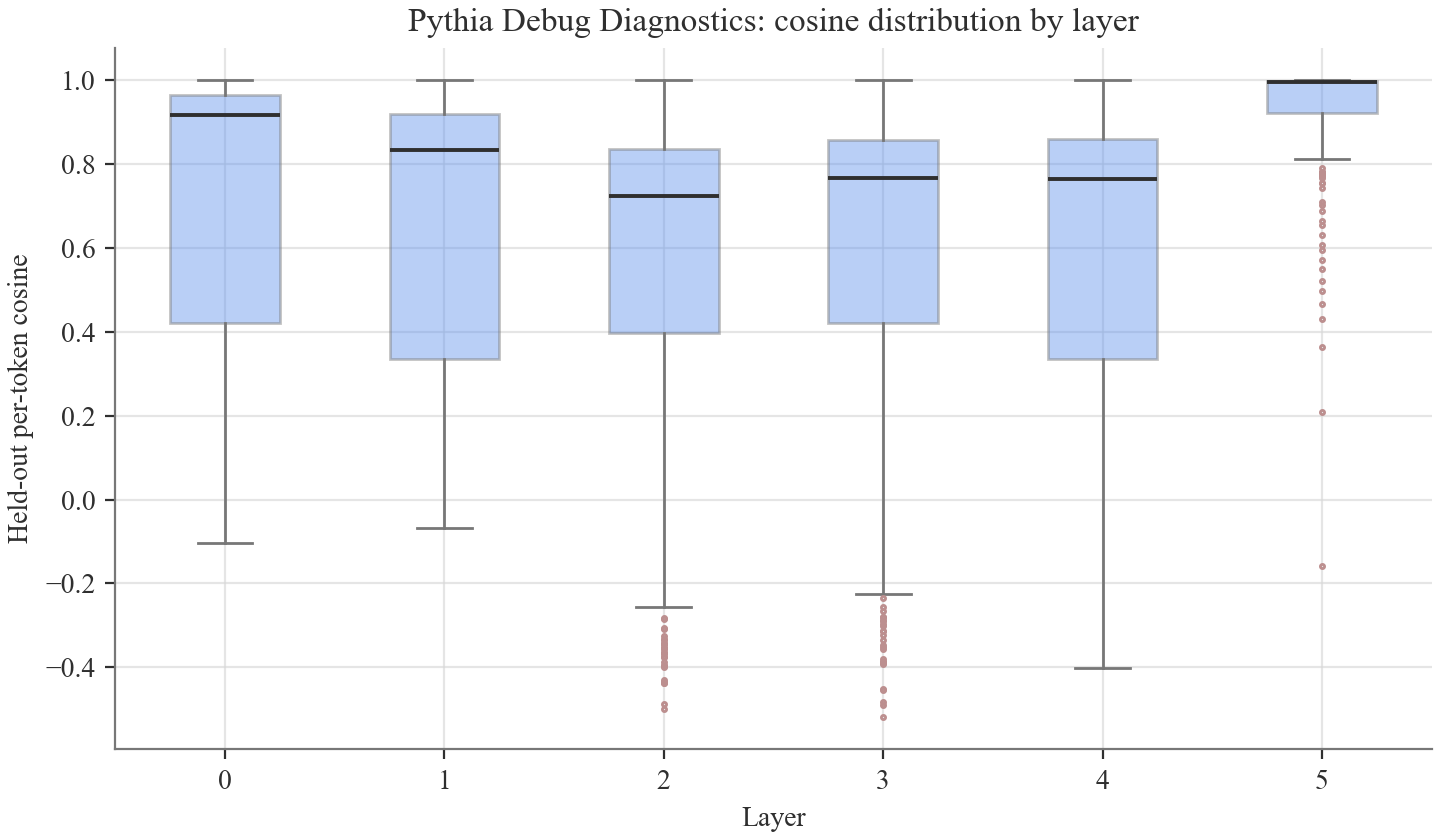
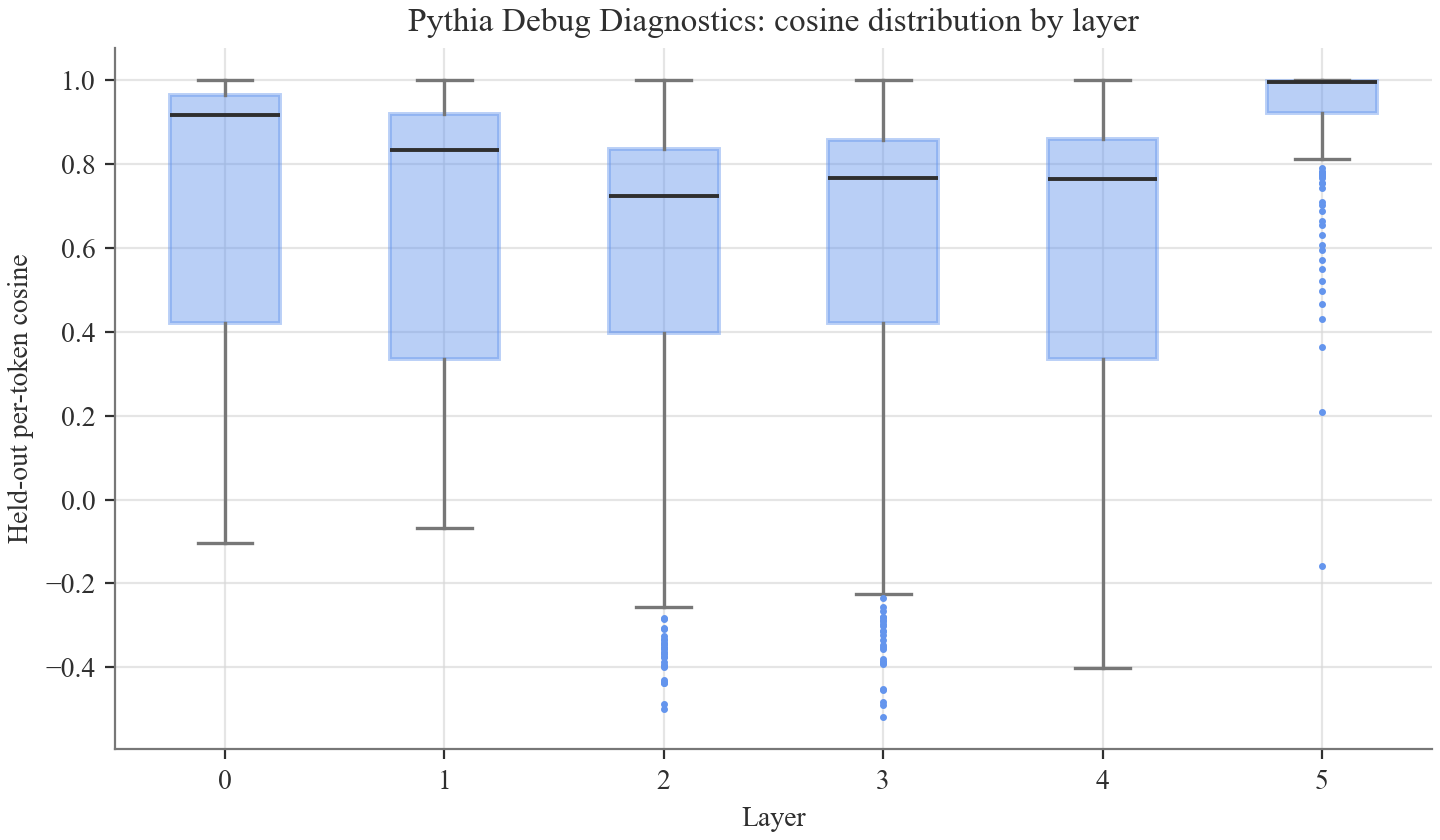
first *working* run

diff --git a/src/token_vs_context_llms/plotting.py b/src/token_vs_context_llms/plotting.py
@@ -153,13 +153,19 @@ def _write_cosine_boxplot(
         patch_artist=True,
         labels=[str(int(layer)) for layer in diagnostics.layer_indices],
         medianprops={"color": TEXT_COLOR, "linewidth": 1.4},
-        boxprops={"color": SPINE_COLOR},
-        whiskerprops={"color": SPINE_COLOR},
-        capprops={"color": SPINE_COLOR},
-        flierprops={"marker": ".", "markersize": 3, "markeredgecolor": "rosybrown"},
+        boxprops={"color": "cornflowerblue", "linewidth": 1.4},
+        whiskerprops={"color": SPINE_COLOR, "linewidth": 1.2},
+        capprops={"color": SPINE_COLOR, "linewidth": 1.2},
+        flierprops={
+            "marker": ".",
+            "markersize": 3,
+            "markeredgecolor": "cornflowerblue",
+            "markerfacecolor": "cornflowerblue",
+        },
     )
     for patch in box["boxes"]:
         patch.set_facecolor("cornflowerblue")
+        patch.set_edgecolor("cornflowerblue")
         patch.set_alpha(0.45)
     _finish_axis(axis, "Layer", "Held-out per-token cosine")
     axis.set_title(f"{title_prefix}: cosine distribution by layer")
@@ -231,7 +237,7 @@ def _write_norm_vs_error(
     title_prefix: str,
     max_points_per_layer: int = 500,
 ) -> None:
-    fig, axis = plt.subplots(figsize=(7.2, 4.4), constrained_layout=True)
+    fig, axis = plt.subplots(figsize=(7.2, 6.4), constrained_layout=True)
     colors = _layer_colors(len(diagnostics.layer_indices))
 
     for local_layer, layer_index in enumerate(diagnostics.layer_indices):

diff --git a/docs/final_report/figures/pythia_pile10k_diagnostics/worst_tokens.md b/docs/final_report/figures/pythia_pile10k_diagnostics/worst_tokens.md
@@ -1,0 +1,52 @@
+# Worst Held-Out Tokens by Cosine Similarity
+
+| Layer | Token | Position | Cosine | MSE | Target norm |
+|---:|---|---:|---:|---:|---:|
+| 0 | ' | 52 | 0.560082 | 0.0718596 | 7.20091 |
+| 0 | Ġfile | 48 | 0.578558 | 0.0763791 | 6.65164 |
+| 0 | o | 88 | 0.578572 | 0.0502493 | 5.48819 |
+| 0 | Ġ | 16 | 0.602419 | 0.0623309 | 6.87562 |
+| 0 | ' | 126 | 0.604351 | 0.0540768 | 6.414 |
+| 0 | led | 73 | 0.608431 | 0.0453726 | 5.44233 |
+| 0 | s | 88 | 0.615088 | 0.0522435 | 6.28181 |
+| 0 | Ġfile | 27 | 0.621833 | 0.0683429 | 6.62816 |
+| 1 | Ċ | 124 | 0.284412 | 0.132279 | 7.20344 |
+| 1 | Ċ | 19 | 0.312768 | 0.132032 | 7.44374 |
+| 1 | j | 0 | 0.325346 | 1.15881 | 25.6649 |
+| 1 | . | 110 | 0.352137 | 0.145239 | 7.74178 |
+| 1 | Ċ | 35 | 0.358816 | 0.117312 | 7.13409 |
+| 1 | ĠCONTRACT | 6 | 0.381478 | 0.510844 | 17.4843 |
+| 1 | . | 48 | 0.393946 | 0.115954 | 6.53348 |
+| 1 | . | 109 | 0.400472 | 0.138127 | 7.93642 |
+| 2 | ĠCONTRACT | 6 | -0.315976 | 21.662 | 102.342 |
+| 2 | iche | 1 | 0.0117468 | 0.531543 | 12.5658 |
+| 2 | ÏĥÎµÎ¹ | 51 | 0.0758949 | 0.501523 | 12.4511 |
+| 2 | Į | 120 | 0.112555 | 0.365717 | 11.2311 |
+| 2 | Ġhand | 41 | 0.137811 | 0.453718 | 12.451 |
+| 2 | isc | 22 | 0.152739 | 0.492686 | 12.8389 |
+| 2 | Ġo | 24 | 0.154865 | 0.404078 | 13.0084 |
+| 2 | }$ | 69 | 0.165401 | 0.320677 | 11.2832 |
+| 3 | ĠCONTRACT | 6 | -0.250791 | 20.5569 | 100.135 |
+| 3 | oid | 112 | -0.0494772 | 1.07601 | 17.3527 |
+| 3 | . | 87 | -0.0283768 | 1.71386 | 16.233 |
+| 3 | . | 102 | -0.0216922 | 1.52602 | 13.2572 |
+| 3 | Ġthe | 99 | 0.00813775 | 0.391549 | 10.6851 |
+| 3 | y | 96 | 0.0138385 | 0.664494 | 16.3044 |
+| 3 | Ċ | 75 | 0.0329604 | 1.15797 | 15.0445 |
+| 3 | 190 | 110 | 0.0632865 | 0.527242 | 13.1134 |
+| 4 | y | 96 | -0.23017 | 0.968681 | 17.343 |
+| 4 | ĠOver | 117 | -0.133258 | 0.949488 | 17.4767 |
+| 4 | , | 35 | -0.129206 | 1.14615 | 20.8548 |
+| 4 | ĠGood | 118 | -0.0902812 | 1.02678 | 17.7349 |
+| 4 | * | 113 | -0.081847 | 0.874564 | 18.4842 |
+| 4 | oid | 112 | -0.0602326 | 1.01714 | 16.7672 |
+| 4 | ĠCONTRACT | 6 | -0.0337687 | 4.58567 | 47.4476 |
+| 4 | . | 87 | -0.0254928 | 0.978094 | 15.1505 |
+| 5 | ĠÎ | 19 | -0.215909 | 276.827 | 159.187 |
+| 5 | ĠCOUN | 92 | 0.708177 | 177.321 | 345.954 |
+| 5 | Ġfile | 48 | 0.739205 | 170.848 | 355.2 |
+| 5 | Ġto | 49 | 0.790153 | 141.063 | 375.377 |
+| 5 | Ġnot | 69 | 0.792637 | 138.221 | 365.03 |
+| 5 | Ġof | 6 | 0.824643 | 120.533 | 380.087 |
+| 5 | - | 11 | 0.827809 | 116.175 | 388.338 |
+| 5 | Ġrefreshing | 80 | 0.836159 | 117.627 | 386.674 |

diff --git a/docs/final_report/figures/pythia_pile10k_diagnostics/diagnostic_summary.md b/docs/final_report/figures/pythia_pile10k_diagnostics/diagnostic_summary.md
@@ -1,0 +1,10 @@
+# Probe Diagnostic Summary
+
+| Layer | MSE | Mean baseline MSE | Normalized MSE | Mean cosine | Mean norm |
+|---:|---:|---:|---:|---:|---:|
+| 0 | 0.0212958 | 0.0707066 | 0.208985 | 0.891285 | 7.13754 |
+| 1 | 0.0644499 | 0.121003 | 0.376266 | 0.808429 | 9.01154 |
+| 2 | 0.675656 | 0.800711 | 0.717729 | 0.689391 | 13.8925 |
+| 3 | 0.674848 | 0.803299 | 0.693246 | 0.708612 | 14.9245 |
+| 4 | 0.383133 | 0.47589 | 0.597838 | 0.687731 | 15.9474 |
+| 5 | 6.06478 | 7.30852 | 0.0160677 | 0.991749 | 439.57 |